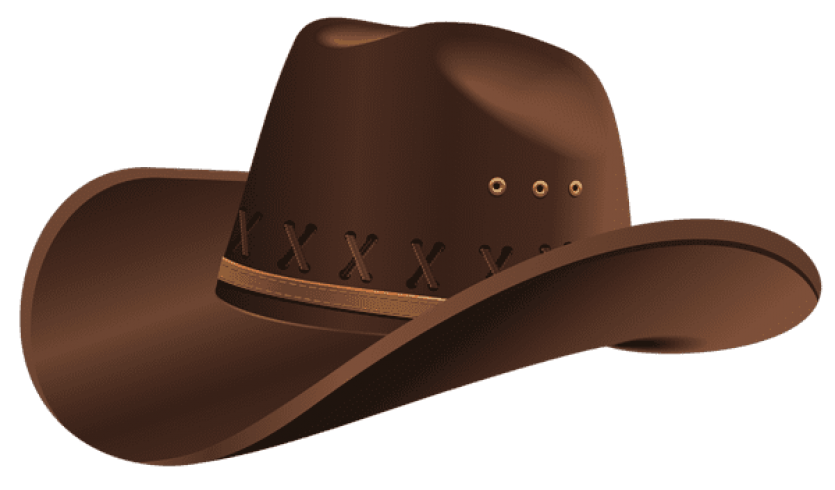
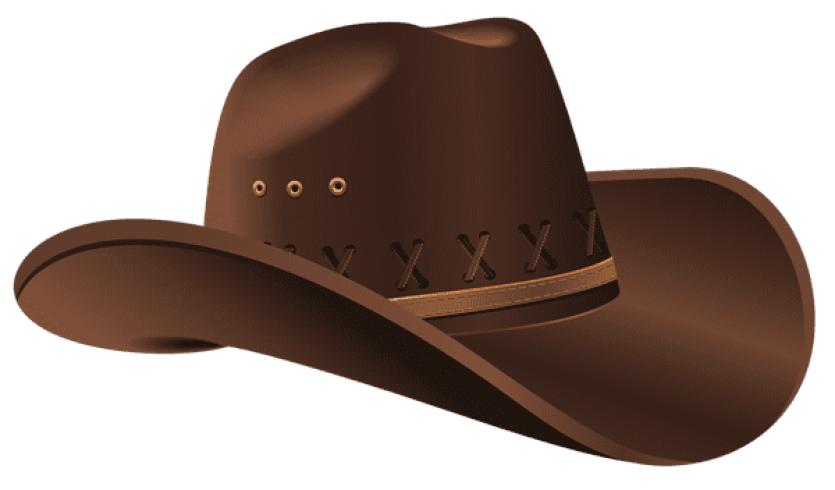
Cowboy hat position.

diff --git a/style.css b/style.css
@@ -17,6 +17,18 @@
     margin-left: 30px;
     width: 200px;
     height: 200px;
+    position: relative;
+    z-index: 1;
+}
+
+.beanBody .cowboyhat {
+    margin-left: 50px;
+    width: 90px;
+    height: 50px;
+    margin-top: 20px;
+    position: absolute;
+    z-index: 2;
+    
 }
 
 .wardrobe {

diff --git a/index.html b/index.html
@@ -9,6 +9,7 @@
 <body>
     <!-- contains the bean's body with will be dressed up' -->
     <div class="beanBody"> 
+        <img class = "cowboyhat" src="images/cowboyhat.png" alt="Cowboy Hat">
         <img class = "bean" src="images/bean.png" alt="Bean">
     </div>
 
